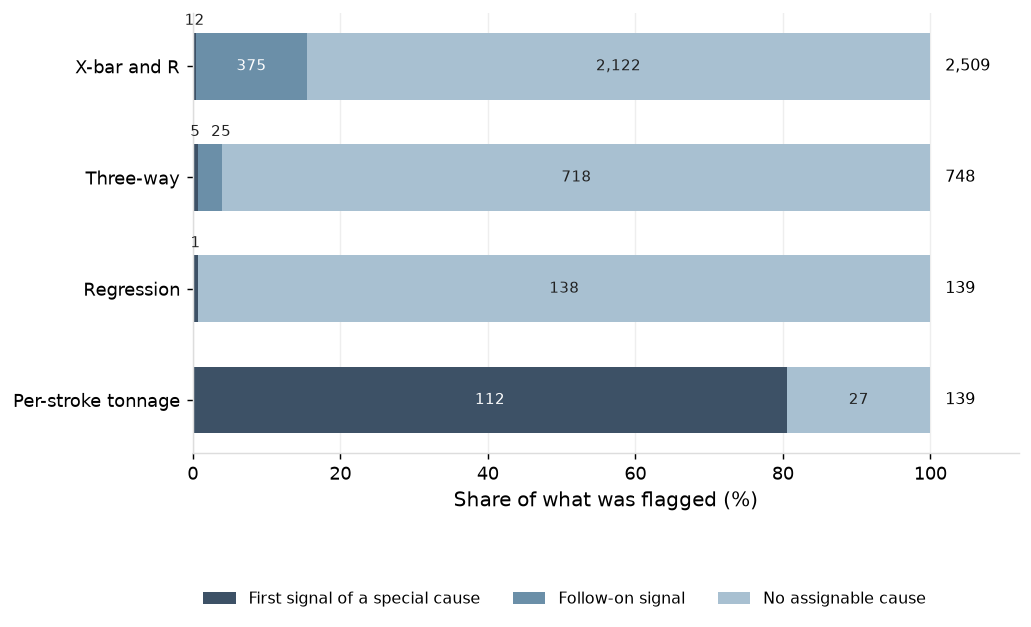
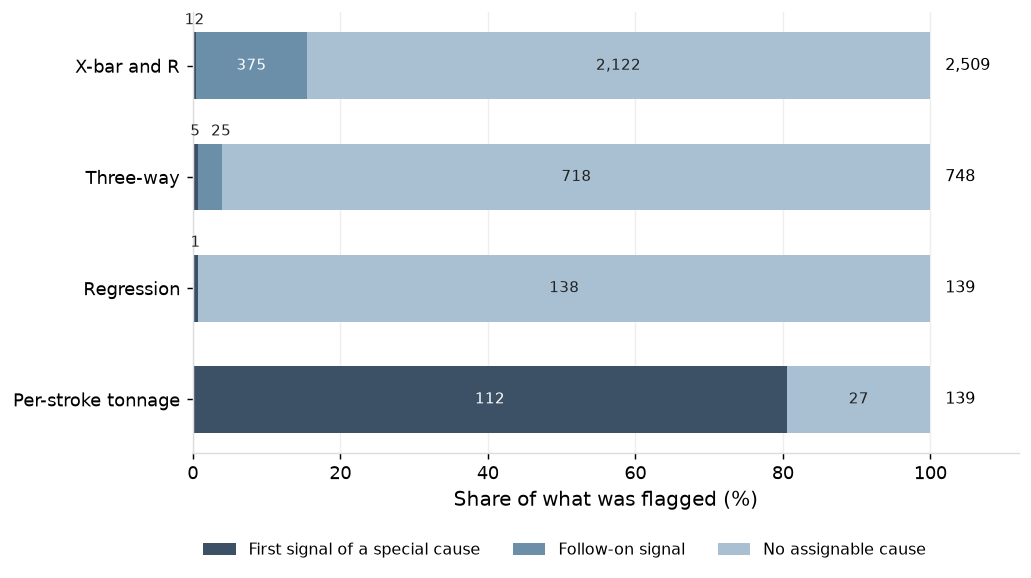
D2: summary rewritten with six boxes, legend closer on the signals chart

diff --git a/stamping_spc_program/docs/reports/spc_quarterly_review_2026_q2.html b/stamping_spc_program/docs/reports/spc_quarterly_review_2026_q2.html
@@ -58,8 +58,9 @@ nav.toc a.sub { font-size: 12px; padding-left: 22px; }
 <div class="layout"><nav class="toc"><div class="toc-title">Contents</div><a href="#summary">1. Summary</a><a href="#capability">2. Capability Review</a><a href="#spc">3. SPC Review</a><a class="sub" href="#signals">3.1 Signals and Causes</a><a class="sub" href="#expected">3.2 Observed vs. Expectations</a><a class="sub" href="#limits">3.3 Control Limits</a><a class="sub" href="#measurement">3.4 Measurement Systems</a></nav>
 <main class="content"><style>.subsection { margin: 34px 0 14px; border-left: 3px solid #54C0E8; padding-left: 12px; } .subsection-label { font-size: 10px; letter-spacing: 2px; text-transform: uppercase; color: #8093A4; font-weight: 700; margin-bottom: 2px; } .subsection h3 { font-size: 16px; font-weight: 600; letter-spacing: .2px; margin: 0; }</style>
 <h2 id="summary">1. Summary</h2>
-<p>The quarter ran in control: 93 of 100 critical characteristics held above Ppk 1.33, signals ran at 1.23 times the expected rate with the excess on rules 3 and 4, every special cause was traced and closed by 30 June, no chart took limits from a gauge out of service, and 19 of 583 run starts were held at the first piece.</p>
-<div style="display:flex;flex-wrap:wrap;gap:12px;margin:14px 0 24px;"><div style="flex:1 1 120px;border:1px solid #DDE3E8;border-radius:8px;padding:12px 14px;"><div style="font-size:24px;font-weight:700;color:#3D5166;line-height:1.2;">93 of 100</div><div style="font-size:12.5px;color:#555;margin-top:4px;">critical characteristics above Ppk 1.33</div></div><div style="flex:1 1 120px;border:1px solid #DDE3E8;border-radius:8px;padding:12px 14px;"><div style="font-size:24px;font-weight:700;color:#3D5166;line-height:1.2;">1.23x</div><div style="font-size:12.5px;color:#555;margin-top:4px;">signals against the expected rate, charts with no special cause</div></div><div style="flex:1 1 120px;border:1px solid #DDE3E8;border-radius:8px;padding:12px 14px;"><div style="font-size:24px;font-weight:700;color:#3D5166;line-height:1.2;">18</div><div style="font-size:12.5px;color:#555;margin-top:4px;">special causes on the characteristic charts, all closed by 30 June</div></div><div style="flex:1 1 120px;border:1px solid #DDE3E8;border-radius:8px;padding:12px 14px;"><div style="font-size:24px;font-weight:700;color:#3D5166;line-height:1.2;">112</div><div style="font-size:12.5px;color:#555;margin-top:4px;">per-stroke stops with a finding</div></div><div style="flex:1 1 120px;border:1px solid #DDE3E8;border-radius:8px;padding:12px 14px;"><div style="font-size:24px;font-weight:700;color:#3D5166;line-height:1.2;">0</div><div style="font-size:12.5px;color:#555;margin-top:4px;">charts on limits from a gauge out of service</div></div><div style="flex:1 1 120px;border:1px solid #DDE3E8;border-radius:8px;padding:12px 14px;"><div style="font-size:24px;font-weight:700;color:#3D5166;line-height:1.2;">19 of 583</div><div style="font-size:12.5px;color:#555;margin-top:4px;">run starts held, median 62 minutes to release</div></div></div>
+<p>In Q2 2026, 93 of 100 critical characteristics held above the Ppk threshold of 1.33. Of the seven that were below the Ppk threshold, four had confidence intervals that extended over the threshold, and are flagged for monitoring. Three were flagged as needing to be reported to the customers: two had confidence intervals wholly under the Ppk threshold, and one was under both the Ppk and Cpk threshold.</p>
+<p>Signals with no assignable cause ran slightly above expectations at 1.23x. 100% of the 18 special causes found on the characteristic chart signals were closed by the end of the quarter. 112 of the 139 (81%) stops on the per-stroke tonnage charts found a special cause. 11% of gauge studies were above the 10% GRR threshold, all flagged for studies. No charts in the quarter set limits from a gauge that was out of service.</p>
+<div style="display:grid;grid-template-columns:repeat(3,minmax(0,1fr));gap:12px;margin:14px 0 24px;"><div style="border:1px solid #DDE3E8;border-radius:8px;padding:12px 14px;"><div style="font-size:24px;font-weight:700;color:#3D5166;line-height:1.2;">93 of 100</div><div style="font-size:12.5px;color:#555;margin-top:4px;">critical characteristics above Ppk 1.33</div></div><div style="border:1px solid #DDE3E8;border-radius:8px;padding:12px 14px;"><div style="font-size:24px;font-weight:700;color:#3D5166;line-height:1.2;">3</div><div style="font-size:12.5px;color:#555;margin-top:4px;">characteristics flagged for customer reports</div></div><div style="border:1px solid #DDE3E8;border-radius:8px;padding:12px 14px;"><div style="font-size:24px;font-weight:700;color:#3D5166;line-height:1.2;">1.23x</div><div style="font-size:12.5px;color:#555;margin-top:4px;">signals without assignable cause against the expected rate</div></div><div style="border:1px solid #DDE3E8;border-radius:8px;padding:12px 14px;"><div style="font-size:24px;font-weight:700;color:#3D5166;line-height:1.2;">18</div><div style="font-size:12.5px;color:#555;margin-top:4px;">special causes on the characteristic charts closed by end of quarter</div></div><div style="border:1px solid #DDE3E8;border-radius:8px;padding:12px 14px;"><div style="font-size:24px;font-weight:700;color:#3D5166;line-height:1.2;">112 of 139</div><div style="font-size:12.5px;color:#555;margin-top:4px;">per-stroke tonnage stops with a special cause finding</div></div><div style="border:1px solid #DDE3E8;border-radius:8px;padding:12px 14px;"><div style="font-size:24px;font-weight:700;color:#3D5166;line-height:1.2;">0</div><div style="font-size:12.5px;color:#555;margin-top:4px;">charts on limits from an out of service gauge</div></div></div>
 <h2 id="capability">2. Capability Review</h2>
 <p>Capability held through the quarter on all but seven critical characteristics. 100 critical characteristics had 60 or more routine subgroups in the quarter; 93 ran at or above Ppk 1.33, and the other seven, six formed characteristics and one hole diameter, ran between 1.23 and 1.32.</p>
 <div class='chart-title'>Ppk by class, Q2 '26</div><img alt="Ppk by class" src="../figures/d2_ppk_by_class.png">

diff --git a/stamping_spc_program/analytics/reports/quarterly_review.py b/stamping_spc_program/analytics/reports/quarterly_review.py
@@ -173,7 +173,7 @@ def build():
          f"{n(len(stp) - len(stf), 'mart_per_stroke_stops: nothing found, quarter', was='27')} with no assignable cause.")
     for r in fl.itertuples():
         pg.figval(fno[0] + 1, f"{r.a:,} / {r.o:,} / {r.b:,}", f"what the charts flagged: {r.group}")
-    pg.figure(DFIG.flagged_bars(fl, "d2_charts_flagged", ("First signal of a special cause", "Follow-on signal", "No assignable cause"), alt="SPC chart signals and causes, Q2 2026"), F("SPC Chart Signals and Causes, Q2 '26"))
+    pg.figure(DFIG.flagged_bars(fl, "d2_charts_flagged", ("First signal of a special cause", "Follow-on signal", "No assignable cause"), alt="SPC chart signals and causes, Q2 2026", legend_y=-0.17), F("SPC Chart Signals and Causes, Q2 '26"))
     evq = allc.groupby("event").agg(first=("raised_at", "min"), chart_type=("chart_type", "first"), panel=("chart", "first"), cause=("cause_code", "first"), die=("die_id", "first")).reset_index()
     evq["row"] = evq["chart_type"].map(CHART_ROW); assert evq["row"].notna().all()
     evq["label"] = evq["cause"].map(SHORT)
@@ -276,18 +276,26 @@ def build():
     last_section = pg.section; pg.section = "1. Summary"
     summary = []
     summary.append('<h2 id="summary">1. Summary</h2>')
-    sent = (f"The quarter ran in control: {n(int((ccap['ppk'] >= 1.33).sum()), 'critical at or above 1.33', was='93')} of {n(len(ccap), 'critical characteristics', was='100')} critical characteristics held above Ppk 1.33, "
-            f"signals ran at {n(tot_s / tot_e, 'observed over expected, quarter', '{:.2f}', was='1.23')} times the expected rate with the excess on rules 3 and 4, every special cause was traced and closed by 30 June, "
-            f"no chart took limits from a gauge out of service, and {n(held_n, 'held, quarter', was='19')} of {n(starts, 'run starts, quarter', was='583')} run starts were held at the first piece.")
-    summary.append(f"<p>{sent}</p>")
+    mon = u[(u["ppk_high"] >= 1.33) & ~u["customer"]]; wholly = u[u["ppk_high"] < 1.33]; both = u[u["cpk"] < 1.33]
+    assert len(mon) == 4 and len(wholly) == 2 and len(both) == 1 and len(mon) + len(wholly) + len(both) == len(u)
+    g10 = gsq[gsq["pct_grr_of_tolerance"] >= 10]
+    summary.append(f"<p>In Q2 2026, {n(int((ccap['ppk'] >= 1.33).sum()), 'critical at or above 1.33', was='93')} of {n(len(ccap), 'critical characteristics', was='100')} critical characteristics held above the Ppk threshold of 1.33. "
+                   f"Of the {wd(len(u), 'mart_capability: below 1.33, quarter', was='seven')} that were below the Ppk threshold, {wd(len(mon), 'mart_capability: below 1.33 with ppk_high at or above 1.33 and cpk at or above 1.33, quarter', was='four')} had confidence intervals that extended over the threshold, and are flagged for monitoring. "
+                   f"{txt('Three', 'mart_capability: ppk_high under 1.33 or cpk under 1.33, quarter (3)', was='Three')} were flagged as needing to be reported to the customers: {wd(len(wholly), 'mart_capability: ppk_high under 1.33, quarter', was='two')} had confidence intervals wholly under the Ppk threshold, "
+                   f"and {wd(len(both), 'mart_capability: ppk and cpk under 1.33, quarter', was='one')} was under both the Ppk and Cpk threshold.</p>")
+    summary.append(f"<p>Signals with no assignable cause ran slightly above expectations at {n(tot_s / tot_e, 'observed over expected, quarter', '{:.2f}', was='1.23')}x. "
+                   f"100% of the {n(n_sc, 'special causes on the characteristic charts, all closed by 30 June', was='18')} special causes found on the characteristic chart signals were closed by the end of the quarter. "
+                   f"{n(len(stf), 'per-stroke stops with a finding', was='112')} of the {n(len(stp), 'per-stroke stops, quarter', was='139')} ({pct(len(stf) / len(stp), 'per-stroke stops with a finding, share', 0)}) stops on the per-stroke tonnage charts found a special cause. "
+                   f"{pct(len(g10) / len(gsq), 'mart_gauge_studies: studies in the quarter at or above 10% of tolerance, share (7 of 66)', 0, was='11%')} of gauge studies were above the 10% GRR threshold, all flagged for studies. "
+                   f"{'No' if on_out == 0 else n(on_out, 'charts on a gauge out of service')} charts in the quarter set limits from a gauge that was out of service.</p>")
     tiles = [(f"{n(int((ccap['ppk'] >= 1.33).sum()), 'critical at or above 1.33', was='93')} of {n(len(ccap), 'critical characteristics', was='100')}", "critical characteristics above Ppk 1.33"),
-             (f"{n(tot_s / tot_e, 'observed over expected, quarter', '{:.2f}', was='1.23')}x", "signals against the expected rate, charts with no special cause"),
-             (f"{n(n_sc, 'special causes on the characteristic charts', was='18')}", "special causes on the characteristic charts, all closed by 30 June"),
-             (f"{n(len(stf), 'per-stroke stops with a finding', was='112')}", "per-stroke stops with a finding"),
-             (f"{n(on_out, 'mart_charts_in_force with mart_gauge_quarter_end: charts on a gauge past due or away at 30 June', was='0')}", "charts on limits from a gauge out of service"),
-             (f"{n(held_n, 'held', was='19')} of {n(starts, 'run starts', was='583')}", f"run starts held, median {n(held['minutes_to_release'].median(), 'minutes to release, held, median', was='62')} minutes to release")]
-    summary.append('<div style="display:flex;flex-wrap:wrap;gap:12px;margin:14px 0 24px;">' + "".join(
-        f'<div style="flex:1 1 120px;border:1px solid #DDE3E8;border-radius:8px;padding:12px 14px;"><div style="font-size:24px;font-weight:700;color:{S.BRAND_BLUE};line-height:1.2;">{big}</div>'
+             (f"{n(len(u[u['customer']]), 'mart_capability: ppk_high under 1.33 or cpk under 1.33, quarter', was='3')}", "characteristics flagged for customer reports"),
+             (f"{n(tot_s / tot_e, 'observed over expected, quarter', '{:.2f}', was='1.23')}x", "signals without assignable cause against the expected rate"),
+             (f"{n(n_sc, 'special causes on the characteristic charts', was='18')}", "special causes on the characteristic charts closed by end of quarter"),
+             (f"{n(len(stf), 'per-stroke stops with a finding', was='112')} of {n(len(stp), 'per-stroke stops, quarter', was='139')}", "per-stroke tonnage stops with a special cause finding"),
+             (f"{n(on_out, 'mart_charts_in_force with mart_gauge_quarter_end: charts on a gauge past due or away at 30 June', was='0')}", "charts on limits from an out of service gauge")]
+    summary.append('<div style="display:grid;grid-template-columns:repeat(3,minmax(0,1fr));gap:12px;margin:14px 0 24px;">' + "".join(
+        f'<div style="border:1px solid #DDE3E8;border-radius:8px;padding:12px 14px;"><div style="font-size:24px;font-weight:700;color:{S.BRAND_BLUE};line-height:1.2;">{big}</div>'
         f'<div style="font-size:12.5px;color:#555;margin-top:4px;">{lab}</div></div>' for big, lab in tiles) + "</div>")
     for k_, blk in enumerate(summary):
         pg.body.insert(body_summary_at + k_, blk)

diff --git a/stamping_spc_program/analytics/reports/design_figures.py b/stamping_spc_program/analytics/reports/design_figures.py
@@ -499,7 +499,7 @@ def program_by_class(pv, parts, min_label=12):
     return S.save(f, "d1_charts_by_program_and_class", "Active SPC charts by program and control target")
 
 
-def flagged_bars(rows, name, labels=("Special cause", "No assignable cause"), alt="What the charts flagged in the year"):
+def flagged_bars(rows, name, labels=("Special cause", "No assignable cause"), alt="What the charts flagged in the year", legend_y=-0.28):
     """rows: group, a (special cause), b (no assignable cause), and optionally o (follow-on signals, between the two). One
     100% stacked horizontal bar per group, counts in the segments, the total at the bar's end."""
     f, ax = S.fig(h=0.75 * len(rows) + 1.4, grid="x")
@@ -520,7 +520,7 @@ def flagged_bars(rows, name, labels=("Special cause", "No assignable cause"), al
     for i in range(len(rows)):
         ax.text(102, i, f"{int(tot[i]):,}", va="center", fontsize=9)
     ax.set_yticks(y); ax.set_yticklabels(rows["group"]); ax.invert_yaxis(); ax.set_xlim(0, 112); ax.set_xlabel("Share of what was flagged (%)")
-    ax.legend(frameon=False, ncol=3, loc="upper center", bbox_to_anchor=(0.45, -0.28), fontsize=9)
+    ax.legend(frameon=False, ncol=3, loc="upper center", bbox_to_anchor=(0.45, legend_y), fontsize=9)
     return S.save(f, name, alt)
 
 
